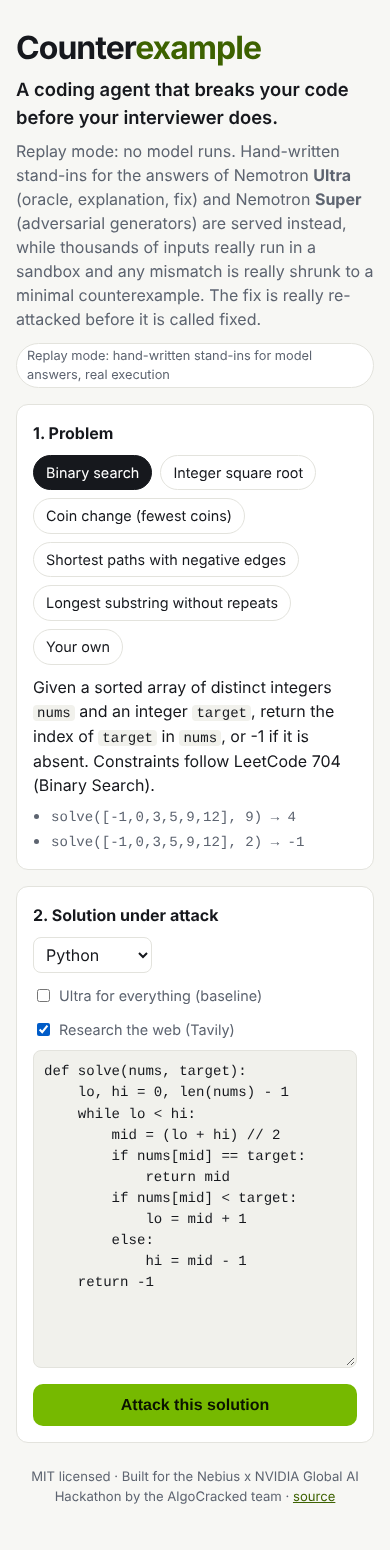
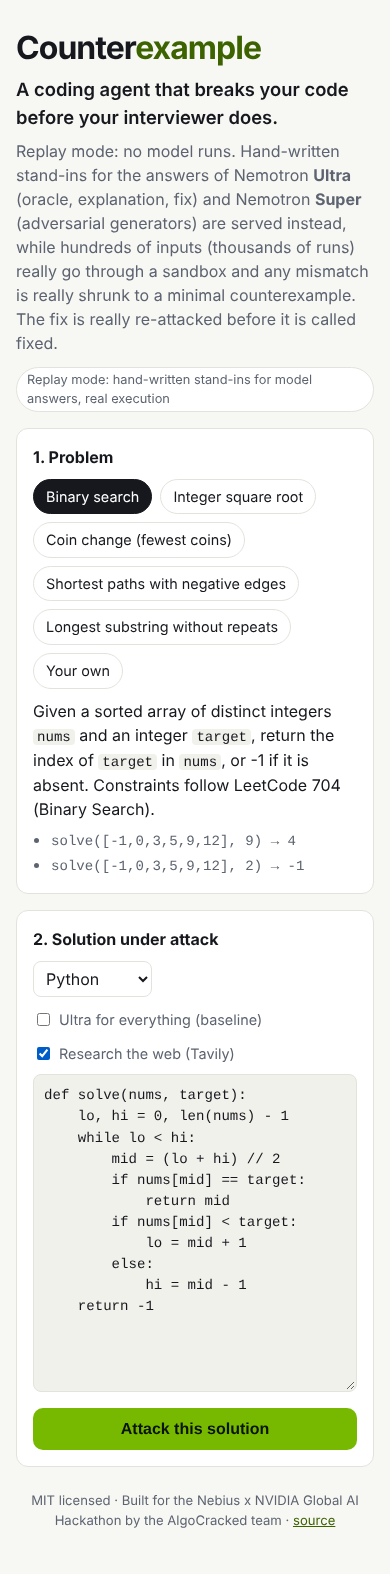
Round 15 UI: only a held Enter is ignored, on both buttons; a late share cannot rewrite the address bar; tests for pick(), the midnight refund, small-scope dedupe and plurals; screenshots retaken
Claude-Session: https://claude.ai/code/session_01MhqWcN2Xy12avz8LfXtVq9

diff --git a/src/app/attack-ui.tsx b/src/app/attack-ui.tsx
@@ -12,12 +12,14 @@ import { MODE_LABEL, HeroText, type UIMode } from "./mode-copy";
 import { buildAttackBody } from "./request";
 import { CANCELLED, focusIsIdle, initialRun, runReducer } from "./run-state";
 import { saveFile } from "./save-file";
+import { ignoreHeldEnter } from "./keys";
 import { initialShare, shareReducer } from "./share-state";
 import { researchFacts } from "./stream";
 
 export type UIProblem = { id: string; title: string; statement: string; examples: Example[]; language: "python" | "javascript"; code: string };
 
 const CUSTOM = "custom";
+
 
 export default function AttackUI({ problems }: { problems: UIProblem[] }) {
   const first = problems[0];
@@ -71,6 +73,8 @@ export default function AttackUI({ problems }: { problems: UIProblem[] }) {
   }, [running]);
   const abort = useRef<AbortController | null>(null);
   const lastRun = useRef(0);
+  /** Bumped whenever the page shows something else (a run starts, a problem is picked): async share work checks it before writing. */
+  const view = useRef(0);
   useEffect(() => () => abort.current?.abort(), []);
   const traceEnd = useRef<HTMLDivElement | null>(null);
   useEffect(() => {
@@ -96,6 +100,7 @@ export default function AttackUI({ problems }: { problems: UIProblem[] }) {
   }
 
   function pick(id: string) {
+    view.current++;
     // The chip keeps focus: a run ended by this pick must not pull it to the Attack button.
     refocusGo.current = false;
     dispatch({ type: "reset" });
@@ -114,6 +119,7 @@ export default function AttackUI({ problems }: { problems: UIProblem[] }) {
   }
 
   async function run() {
+    view.current++;
     abortRun();
     refocusGo.current = true;
     const ac = new AbortController();
@@ -140,6 +146,7 @@ export default function AttackUI({ problems }: { problems: UIProblem[] }) {
   };
   const shareReport = async () => {
     if (!report) return;
+    const shown = view.current;
     let enc: Awaited<ReturnType<typeof encodeReport>>;
     try {
       enc = await encodeReport(report, fragmentBudget(window.location.origin, window.location.pathname));
@@ -160,14 +167,18 @@ export default function AttackUI({ problems }: { problems: UIProblem[] }) {
       );
       return;
     }
+    if (view.current !== shown) return;
     const link = `${window.location.origin}${window.location.pathname}${enc.fragment}`;
     setShareLink(link);
+    let copied = true;
     try {
       await navigator.clipboard.writeText(link);
-      setShareNote("Link copied. The report is inside the link itself; nothing is stored on the server.");
     } catch {
-      setShareNote("Copy this link (the report is inside it; nothing is stored on the server):");
+      copied = false;
     }
+    // The page moved on while the clipboard answered: this link belongs to a report no longer shown.
+    if (view.current !== shown) return;
+    setShareNote(copied ? "Link copied. The report is inside the link itself; nothing is stored on the server." : "Copy this link (the report is inside it; nothing is stored on the server):");
     window.history.replaceState(null, "", enc.fragment);
   };
   const closeShared = () => {
@@ -269,12 +280,12 @@ export default function AttackUI({ problems }: { problems: UIProblem[] }) {
         </div>
         <textarea className="code" spellCheck={false} rows={14} value={code} onChange={(e) => setCode(e.target.value)} aria-label="Solution code" />
         <div className="go-row">
-          <button className="go" ref={goButton} onClick={run} disabled={running}>
+          <button className="go" ref={goButton} onClick={run} disabled={running} onKeyDown={ignoreHeldEnter}>
             {running ? "Attacking…" : "Attack this solution"}
           </button>
-          {/* Enter held on Attack repeats once focus has moved to Cancel: a repeated key must not cancel the run it started. */}
+          {/* A held Enter repeats: on Cancel it would cancel the run it started, on Attack start one run after another. Other repeated keys (Tab) pass. */}
           {running && (
-            <button className="ghost cancel" ref={cancelButton} onClick={cancel} onKeyDown={(e) => e.repeat && e.preventDefault()}>
+            <button className="ghost cancel" ref={cancelButton} onClick={cancel} onKeyDown={ignoreHeldEnter}>
               Cancel
             </button>
           )}

diff --git a/tests/unit/guard-limit.test.ts b/tests/unit/guard-limit.test.ts
@@ -96,6 +96,19 @@ describe("Guard", () => {
     expect(g.spentUsd(late)).toBeCloseTo(0.2);
   });
 
+  it("settles an attack that ran across UTC midnight without refunding yesterday's reservation from today's spend", () => {
+    const g = new Guard(cfg({ DAILY_SPEND_CAP_USD: 1, MAX_CONCURRENT_ATTACKS: 4 }));
+    const midnight = Date.UTC(2026, 9, 25); // the UTC midnight after DAY
+    const evening = g.admit("a", midnight - 30_000, true, 0.6);
+    expect(evening.ok).toBe(true);
+    // Just after midnight, still within its lease: another attack reserves today's money first.
+    const morning = g.admit("b", midnight + 10_000, true, 0.5);
+    expect(morning.ok).toBe(true);
+    if (evening.ok) g.done(evening.ticket, { costUsd: 0.75, unpricedCalls: 0 }, midnight + 30_000);
+    // Today counts the morning reservation and what the evening attack spent; its 0.6 was yesterday's to refund.
+    expect(g.spentUsd(midnight + 30_000)).toBeCloseTo(0.5 + 0.75);
+  });
+
   it("prices the worst case from the call budget, the token caps and the dearest model", () => {
     const prices = { ultra: { in: 1, out: 3 }, fast: { in: 0.3, out: 0.9 } };
     const perUltraCall = (RESERVE_PROMPT_TOKENS * 1 + RESERVE_COMPLETION_TOKENS * 3) / 1e6;

diff --git a/tests/unit/smallscope.test.ts b/tests/unit/smallscope.test.ts
@@ -227,6 +227,14 @@ describe("small-scope with graphs that have no small instances", () => {
     expect(xs).toEqual(expect.arrayContaining([0, 1, -1, 24, -24, 1000, -1000, 999, -999, null]));
   });
 
+  it("never repeats an input, even when the values of a spec overlap", () => {
+    for (const spec of [{ kind: "string", alphabet: "aab", len: { min: 0, max: 3 } }, { kind: "oneOf", options: [I(0, 5), I(3, 8)] }] as TypeSpec[]) {
+      const xs = smallScopeInputs([spec], 300).map((a) => JSON.stringify(a));
+      expect(new Set(xs).size).toBe(xs.length);
+    }
+    expect(smallScopeInputs([{ kind: "string", alphabet: "aab", len: { min: 0, max: 3 } }], 300)).toHaveLength(15);
+  });
+
   it("stops a sequence list at its limit, shortest first", () => {
     expect(sequences(["a", "b"], 0, 3, 5)).toEqual([[], ["a"], ["b"], ["a", "a"], ["a", "b"]]);
     expect(sequences(["a", "b"], 2, 3, 100)).toHaveLength(4 + 8);

diff --git a/tests/unit/report-view.test.ts b/tests/unit/report-view.test.ts
@@ -21,6 +21,12 @@ describe("ReportView markup", () => {
     expect(html).toContain('<div class="dl same"><span class="sign" aria-hidden="true"> </span>def solve(a, t):</div>');
   });
 
+  it("counts changed lines in the singular and the plural", () => {
+    // The fixture's fix is "def solve(a, t):\n    return 0\n": one added line, then a replaced one (two changed lines).
+    expect(render(fullReport({ solution: { language: "python", code: "def solve(a, t):\n", entry: "solve" } }))).toContain("1 changed line against your code");
+    expect(render(fullReport({ solution: { language: "python", code: "def solve(a, t):\n    return -1\n", entry: "solve" } }))).toContain("2 changed lines against your code");
+  });
+
   it("cuts the original arguments at 120 characters with an ellipsis", () => {
     const long = Array.from({ length: 60 }, (_, i) => 1000 + i);
     const cx = fullReport().counterexample!;

diff --git a/tests/unit/keys.test.ts b/tests/unit/keys.test.ts
@@ -1,0 +1,18 @@
+import { describe, expect, it, vi } from "vitest";
+import { ignoreHeldEnter } from "@/app/keys";
+
+describe("ignoreHeldEnter", () => {
+  const press = (key: string, repeat: boolean) => {
+    const preventDefault = vi.fn();
+    ignoreHeldEnter({ key, repeat, preventDefault });
+    return preventDefault.mock.calls.length > 0;
+  };
+
+  it("swallows only a repeated Enter", () => {
+    expect(press("Enter", true)).toBe(true);
+    // A fresh Enter still activates the button, and a held Tab still moves focus on.
+    expect(press("Enter", false)).toBe(false);
+    expect(press("Tab", true)).toBe(false);
+    expect(press(" ", true)).toBe(false);
+  });
+});

diff --git a/src/app/keys.ts b/src/app/keys.ts
@@ -1,0 +1,4 @@
+/** A repeated Enter (the key held down) does not activate a button; other repeated keys (Tab, arrows) pass. */
+export function ignoreHeldEnter(e: { key: string; repeat: boolean; preventDefault: () => void }): void {
+  if (e.repeat && e.key === "Enter") e.preventDefault();
+}

diff --git a/WIN-CHECKLIST.md b/WIN-CHECKLIST.md
@@ -9,7 +9,7 @@ Legend:
 
 ## Judging criteria
 
-- [x] **Built well:** typed, budgeted, cancellable stages (`src/lib/agent/`). Every external input is schema-validated, errors are typed, and network calls have timeouts, retries with backoff and an idempotency key. Evidence: 528 tests when counted on 2026-10-28 (`pnpm test`), lint with 0 warnings, strict TypeScript, `next build` passes.
+- [x] **Built well:** typed, budgeted, cancellable stages (`src/lib/agent/`). Every external input is schema-validated, errors are typed, and network calls have timeouts, retries with backoff and an idempotency key. Evidence: 532 tests when counted on 2026-10-28 (`pnpm test`), lint with 0 warnings, strict TypeScript, `next build` passes.
 - [x] **Uses Token Factory and Nemotron by design:** Ultra writes the oracle and the explanation, Super writes the generators and research summaries. There is an Ultra-only baseline and a per-step cost and latency panel. Evidence: `src/lib/agent/model-call.ts`, `tests/e2e/agent-replay.test.ts` (routing assertions), `bench/results/fixture.md`.
 - [P] **Live Token Factory run:** proven over real HTTP against fake Token Factory and Tavily servers plus the real sandbox (`tests/integration/live-wiring.test.ts`: full attack, a 429 retried, a custom statement through the API). `pnpm preflight` is ready. Needs `NEBIUS_API_KEY` and network access (BLOCKED.md).
 - [x] **Creativity:**
@@ -207,3 +207,8 @@ Legend:
     - holding Enter on Attack no longer cancels the run;
     - picking a chip closes the shared report;
     - tests pin the top-level oneOf values and the float tolerance.
+- [x] Round 15 (audit of `c90b859`; fixed in `92831bb`, `1afd683` and the UI commit after them; details in `reaudit.md`):
+  - core: a suite time bomb after the 2026-11-09 model removal (preflight tests on a fixed clock, and no key means the check is skipped; 528/528 pass with the clock at 2026-12-05); removed ids match without case; graph signature in the oracle prompt; Python async; orphan `</think>`;
+  - security: `sortJson` and `smallestFirst` serialise once; the re-attack setup, dedupe and judging yield to the event loop;
+  - UI: Enter-only repeat guard on both buttons; stale share writes dropped; tests for `pick()`, the midnight refund, small-scope dedupe and plurals;
+  - judge: UI copy says "hundreds of inputs (thousands of runs)", with screenshots retaken; bench-sourced batch counts; official Sandboxes limits; the preflight owner step; unverifiable dates removed.

diff --git a/.agent/win/COUNTEREXAMPLE/reaudit.md b/.agent/win/COUNTEREXAMPLE/reaudit.md
@@ -29,8 +29,16 @@ Not clean.
   - low: the oracle prompt's signature spells a graph parameter as `<name>_n, <name>_edges`;
   - low: Python `async def` now gets the same clear runtime error as JavaScript;
   - low: an answer holding only a closing `</think>` (the trace opened in the prompt) is cut after its last closing tag.
-- **UI and tests:** pending.
-- Checks: lint, typecheck, 528/528 tests, build, and e2e (10 steps).
+- **UI and tests** (3 low; 33 mutants, 26 killed). axe found 0 violations on 112 states, and 10 keyboard runs were clean. Fixed:
+  - the held-Enter guard swallowed every repeated key on Cancel (a held Tab got stuck) and was missing on Attack (a 12 s hold started 4 attacks). Both buttons now ignore only a repeated Enter (`ignoreHeldEnter`, unit-tested);
+  - a late clipboard answer after Share wrote an old link back into the address bar once the reader had moved on. A view counter now drops it (an e2e check with a 1.5 s clipboard);
+  - test gaps from surviving mutants:
+    - `pick()` closing the shared report (e2e on a fresh page);
+    - the across-midnight refund (a new guard test that fails without the same-day check);
+    - small-scope dedupe on overlapping values;
+    - "1 changed line" in the singular.
+- Screenshots retaken on the final copy ("hundreds of inputs").
+- Checks: lint, typecheck, 532/532 tests, build, and e2e (10 steps).
 
 ## Round 14 (2026-10-27, `b67762a`/`985e3d2`, 4 parallel Sonnet audits; findings verified by the main session)
 
